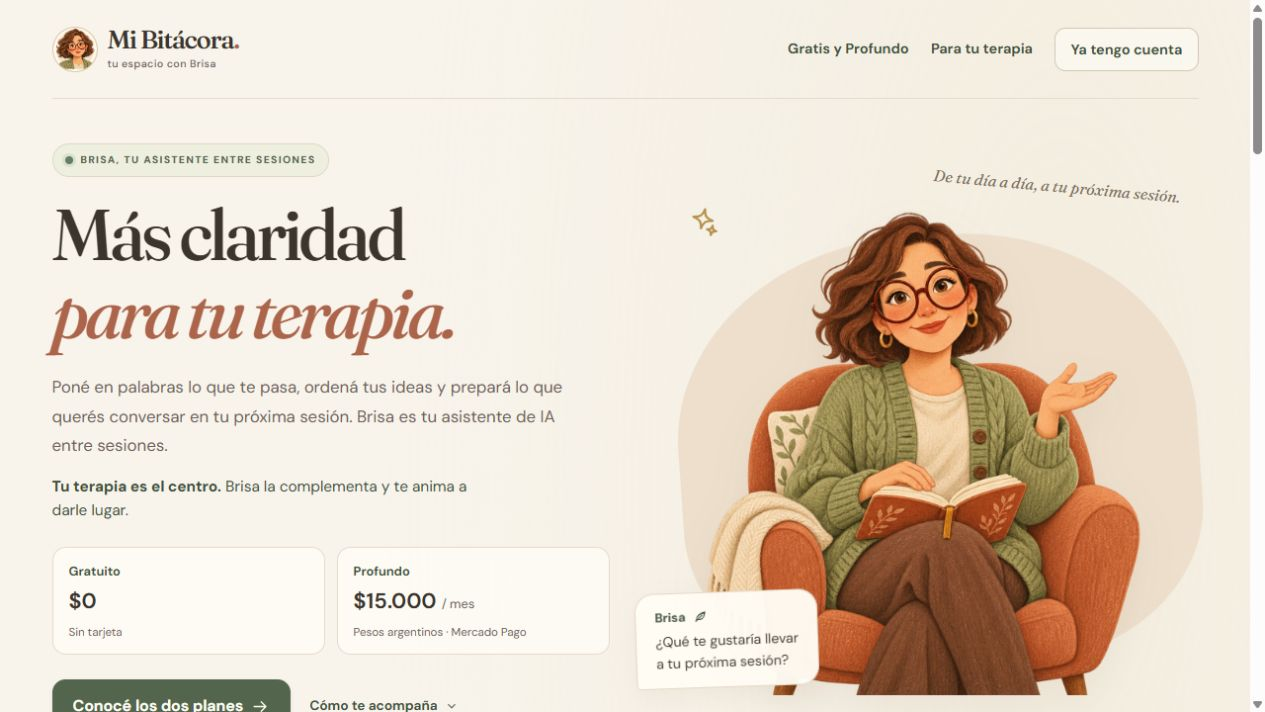
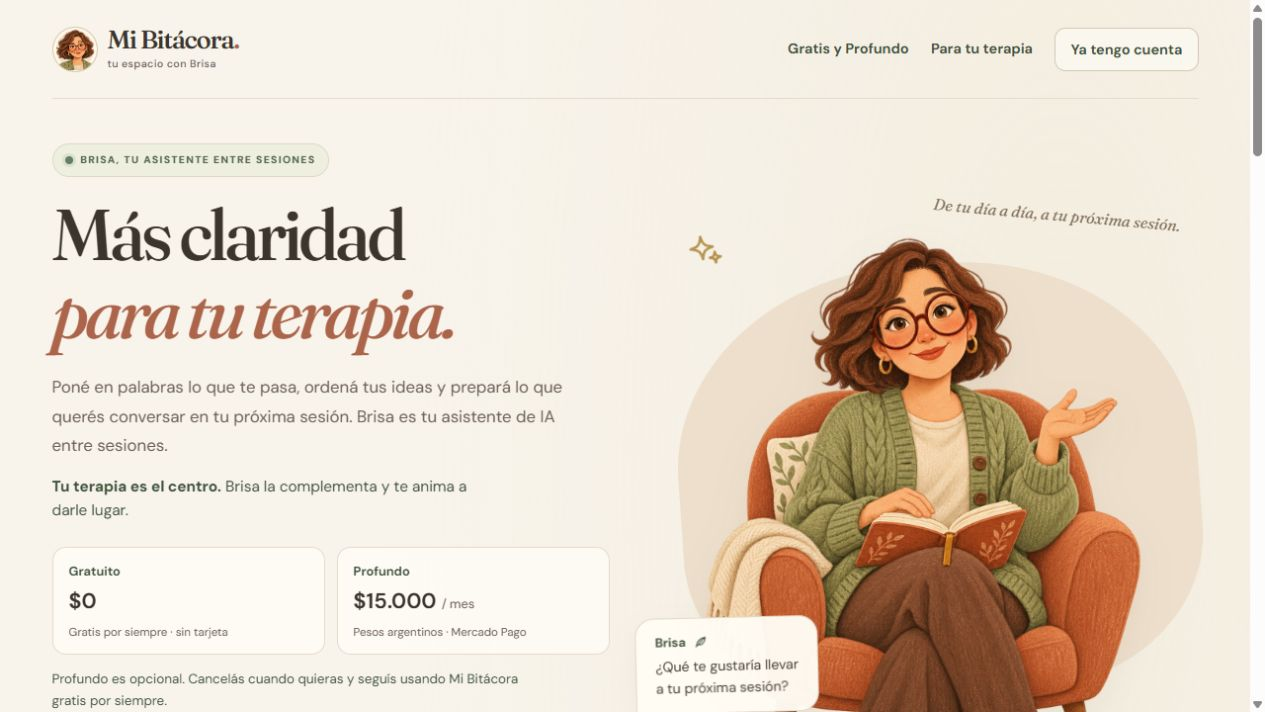
feat: destacar gratuidad permanente y animar Brisa sin controles

diff --git a/wwwroot/brisa.css b/wwwroot/brisa.css
@@ -205,33 +205,31 @@
 .brisa-portrait[data-brisa-activity="responding"] .brisa-face-responding { opacity: 1; }
 .brisa-animated * { --brisa-animation: none; animation: var(--brisa-animation) !important; }
 .brisa-animated .brisa-face { transition: opacity .32s ease !important; }
-.brisa-animated:is([data-brisa-activity="idle"], [data-brisa-settled="true"]) .brisa-face-half-blink { --brisa-animation: brisa-half-blink 8.6s linear infinite; }
-.brisa-animated:is([data-brisa-activity="idle"], [data-brisa-settled="true"]) .brisa-face-blink { --brisa-animation: brisa-blink 8.6s linear infinite; }
-.brisa-animated:is([data-brisa-activity="idle"], [data-brisa-settled="true"]) .brisa-face-stack { --brisa-animation: brisa-breathe 8s ease-in-out infinite; }
+.brisa-animated:is([data-brisa-activity="idle"], [data-brisa-settled="true"]) .brisa-face-half-blink { --brisa-animation: brisa-half-blink 6.8s linear infinite; }
+.brisa-animated:is([data-brisa-activity="idle"], [data-brisa-settled="true"]) .brisa-face-blink { --brisa-animation: brisa-blink 6.8s linear infinite; }
+.brisa-animated:is([data-brisa-activity="idle"], [data-brisa-settled="true"]) .brisa-face-stack { --brisa-animation: brisa-breathe 6s ease-in-out infinite; }
 .brisa-animated[data-brisa-activity="reading"] .brisa-face-stack { --brisa-animation: brisa-read 6.8s ease-in-out infinite; }
 .brisa-animated[data-brisa-activity="thinking"] .brisa-face-stack { --brisa-animation: brisa-ponder 7.2s ease-in-out infinite; }
 .brisa-animated[data-brisa-activity="responding"]:not([data-brisa-settled="true"]) .brisa-face-stack { --brisa-animation: brisa-answer 4.8s ease-in-out both; }
 .brisa-animated[data-brisa-activity="responding"] .brisa-face-responding { --brisa-animation: brisa-respond-face 4.8s ease-in-out both; }
-.brisa-illustration.brisa-animated img { transform-origin: 50% 90%; --brisa-animation: brisa-illustration-breathe 9s ease-in-out infinite; }
-@keyframes brisa-breathe { 0%, 100% { transform: translateY(0); } 50% { transform: translateY(.6px); } }
-@keyframes brisa-read { 0%, 100% { transform: rotate(-.6deg) translateY(0); } 50% { transform: rotate(.4deg) translateY(.7px); } }
-@keyframes brisa-ponder { 0%, 100% { transform: rotate(-1deg); } 50% { transform: rotate(.4deg) translateY(-.4px); } }
+.brisa-illustration.brisa-animated img { transform-origin: 50% 90%; --brisa-animation: brisa-illustration-breathe 7.6s ease-in-out infinite; }
+/* Keep names used by custom properties beside their keyframes, outside CSS isolation. */
+.brisa-hero-scene .brisa-scene-sun { --brisa-animation: brisa-sun 6.2s ease-in-out infinite; }
+.brisa-hero-scene .brisa-hero-bubble { --brisa-animation: brisa-bubble-float 7s ease-in-out infinite; }
+@keyframes brisa-sun { 0%, 100% { transform: rotate(12deg) scale(1); opacity: .75; } 50% { transform: rotate(-8deg) scale(1.14); opacity: 1; } }
+@keyframes brisa-bubble-float { 0%, 100% { transform: translateY(0) rotate(-2deg); } 50% { transform: translateY(-5px) rotate(-1deg); } }
+@keyframes brisa-breathe { 0%, 100% { transform: translateY(0) rotate(0); } 50% { transform: translateY(1.1px) rotate(.3deg); } }
+@keyframes brisa-read { 0%, 100% { transform: rotate(-1.3deg) translateY(0); } 50% { transform: rotate(.7deg) translateY(1.2px); } }
+@keyframes brisa-ponder { 0%, 100% { transform: rotate(-1.8deg); } 50% { transform: rotate(1.1deg) translateY(-.8px); } }
 @keyframes brisa-answer { 0% { transform: rotate(0); } 13% { transform: rotate(1.2deg) translateY(.6px); } 28% { transform: rotate(-.5deg); } 45%, 100% { transform: none; } }
 @keyframes brisa-respond-face { 0% { opacity: 0; } 8%, 80% { opacity: 1; } 100% { opacity: 0; } }
-@keyframes brisa-illustration-breathe { 0%, 100% { transform: translateY(0) scale(1); } 50% { transform: translateY(-1px) scale(1.003); } }
+@keyframes brisa-illustration-breathe { 0%, 100% { transform: translateY(0) scale(1) rotate(0); } 50% { transform: translateY(-5px) scale(1.012) rotate(-.3deg); } }
 @keyframes brisa-half-blink { 0%, 44.9%, 46.1%, 47.1%, 48.2%, 100% { opacity: 0; } 45%, 46%, 47.2%, 48.1% { opacity: 1; } }
 @keyframes brisa-blink { 0%, 46%, 47.2%, 100% { opacity: 0; } 46.1%, 47.1% { opacity: 1; } }
 .brisa-animated:not([data-brisa-visible="true"]) *,
 html[data-brisa-page-hidden="true"] .brisa-animated * { animation-play-state: paused !important; }
 @media (prefers-reduced-motion: reduce) {
-    html:not([data-brisa-motion="on"]) .brisa-animated * { animation: none !important; transition: none !important; transform: none !important; }
-    html:not([data-brisa-motion="on"]) .brisa-face-half-blink,
-    html:not([data-brisa-motion="on"]) .brisa-face-blink { opacity: 0 !important; }
+    .brisa-animated * { animation: none !important; transition: none !important; transform: none !important; }
+    .brisa-face-half-blink, .brisa-face-blink { opacity: 0 !important; }
 }
-html[data-brisa-motion="off"] .brisa-animated * { animation: none !important; transition: none !important; transform: none !important; }
-html[data-brisa-motion="off"] .brisa-face-half-blink, html[data-brisa-motion="off"] .brisa-face-blink { opacity: 0 !important; }
-.brisa-motion-control { display: flex; flex-wrap: wrap; align-items: center; justify-content: space-between; gap: .75rem 1.5rem; margin-block: 1.5rem; padding: 1rem 1.1rem; border: 1px solid var(--line); border-radius: 1rem; background: var(--paper); }
-.brisa-motion-control strong { color: var(--olive-dark); font-size: .85rem; }
-.brisa-motion-control p { max-width: 52ch; margin-top: .2rem; font-size: .76rem; color: var(--muted); line-height: 1.5; }
-.brisa-motion-control select { max-width: 100%; min-height: 2.75rem; padding: .5rem .75rem; border: 1px solid #cdd3c1; border-radius: .65rem; background: #f2f3e8; color: var(--olive-dark); font-size: 1rem; }
 @media print { .brisa-animated * { animation: none !important; transform: none !important; } .brisa-face-half-blink, .brisa-face-blink { display: none; } }

diff --git a/wwwroot/brisa-motion.js b/wwwroot/brisa-motion.js
@@ -1,33 +1,6 @@
 // One observer for the page. Motion never makes a request or reports anything to the server.
 const selector = '[data-brisa-animate="true"]';
 const watched = new Set();
-const preferenceKey = 'mibitacora.brisa.motion';
-const modes = ['system', 'on', 'off'];
-let mode = 'system';
-try { const saved = localStorage.getItem(preferenceKey); if (modes.includes(saved)) mode = saved; } catch { /* Storage may be unavailable. */ }
-const reduced = typeof matchMedia === 'function' ? matchMedia('(prefers-reduced-motion: reduce)') : null;
-function syncControls(node) {
-    document.documentElement.dataset.brisaMotion = mode;
-    for (const control of node.querySelectorAll('[data-brisa-motion-control]')) control.value = mode;
-    const note = mode === 'on' ? 'Animaciones suaves activadas. Podés detenerlas cuando quieras.' :
-        mode === 'off' ? 'Sin animaciones. Brisa conserva sus expresiones.' :
-        reduced?.matches ? 'Tu dispositivo pide reducir el movimiento. Las expresiones cambian sin animarse.' :
-        'Brisa se mueve suavemente y se pausa cuando no está a la vista.';
-    for (const element of node.querySelectorAll('[data-brisa-motion-note]')) element.textContent = note;
-}
-syncControls(document.documentElement);
-reduced?.addEventListener?.('change', () => syncControls(document.documentElement));
-document.addEventListener('change', event => {
-    if (!event.target.matches?.('[data-brisa-motion-control]') || !modes.includes(event.target.value)) return;
-    mode = event.target.value;
-    try { localStorage.setItem(preferenceKey, mode); } catch { /* The choice still works for this page. */ }
-    syncControls(document.documentElement);
-});
-globalThis.addEventListener?.('storage', event => {
-    if (event.key !== preferenceKey) return;
-    mode = modes.includes(event.newValue) ? event.newValue : 'system';
-    syncControls(document.documentElement);
-});
 const observer = typeof IntersectionObserver === 'function' ? new IntersectionObserver(entries => {
     for (const entry of entries) entry.target.dataset.brisaVisible = String(entry.isIntersecting);
 }, { threshold: 0.01 }) : null;
@@ -60,10 +33,7 @@ new MutationObserver(records => {
             else unwatch(record.target);
         } else {
             for (const node of record.removedNodes) visit(node, unwatch);
-            for (const node of record.addedNodes) {
-                visit(node, watch);
-                if (node.nodeType === 1) syncControls(node.parentElement ?? node);
-            }
+            for (const node of record.addedNodes) visit(node, watch);
         }
     }
 }).observe(document.documentElement, { childList: true, subtree: true, attributes: true,

diff --git a/Components/Pages/Home.razor.css b/Components/Pages/Home.razor.css
@@ -8,6 +8,11 @@
 .hero-offers strong { color: var(--ink); font-size: 1.35rem; font-weight: 650; }
 .hero-offers small { color: var(--muted); font-size: .72rem; line-height: 1.5; }
 .hero-offers strong small { font-size: .8rem; font-weight: 400; }
+.plan-freedom { margin-top: .85rem; max-width: 55ch; color: var(--olive-dark); font-size: .84rem; line-height: 1.65; }
+.hero-copy { animation: landing-arrive .75s ease-out both; }
+.brisa-method .method-card { transition: transform .25s ease, box-shadow .25s ease; }
+.brisa-method .method-card:hover { transform: translateY(-4px); box-shadow: 0 12px 28px #72583c12; }
+@keyframes landing-arrive { from { opacity: 0; transform: translateY(12px); } to { opacity: 1; transform: none; } }
 .brisa-hero .hero-actions { gap: .5rem 1.2rem; }
 .brisa-hero .hero-secondary { font-size: .85rem; }
 .landing-plans { padding-block: 1.5rem 4rem; }
@@ -66,4 +71,9 @@
     .landing-header .site-nav .text-link, .landing-header .site-nav .btn { font-size: .72rem; }
     .hero-offers > p { padding: .7rem .6rem; }
     .hero-offers strong { font-size: 1.1rem; }
+}
+@media (prefers-reduced-motion: reduce) {
+    .hero-copy { animation: none; }
+    .brisa-method .method-card { transition: none; }
+    .brisa-method .method-card:hover { transform: none; }
 }

diff --git a/docs/gestos-brisa.md b/docs/gestos-brisa.md
@@ -4,7 +4,11 @@ Brisa pasa por reposo, lectura, pensamiento y respuesta, según fases reales de 
 
 El módulo `brisa-motion.js` pausa los retratos fuera de pantalla o con la pestaña oculta y libera observadores cuando Blazor retira tarjetas. Usa CSS y una hoja transparente de seis expresiones.
 
-En el inicio y Mi cuenta, «Movimiento de Brisa» permite seguir el dispositivo, activar animaciones suaves o desactivarlas. Guarda la preferencia en este navegador con `mibitacora.brisa.motion`. Por defecto respeta `prefers-reduced-motion`. Sin movimiento se mantienen las expresiones informativas; no cambia el sistema operativo ni escribe datos en el servidor.
+Las animaciones se activan automáticamente, sin selector ni aviso en el inicio o Mi cuenta. Las preferencias antiguas guardadas en `mibitacora.brisa.motion` ya no se consultan ni se modifican. Los retratos se animan por defecto; las tarjetas históricas de respuestas conservan `Animated=false` para que la lectura del historial siga tranquila.
+
+La ilustración tiene un balanceo más perceptible; los retratos respiran, parpadean y acompañan las fases reales de la conversación. En el inicio, la burbuja flota y la estrella cambia suavemente de escala y ángulo; la escena usa el mismo observador de visibilidad que los retratos. La entrada del texto y la respuesta al pasar sobre las tarjetas completan el movimiento sin ocultar contenido ni agregar esperas.
+
+Se respeta automáticamente `prefers-reduced-motion` del dispositivo y se detiene el movimiento al imprimir. Las expresiones informativas permanecen visibles. No se agregan llamadas de IA, preferencias en el servidor ni escrituras en el almacenamiento del navegador.
 
 ## Recurso y reproducción
 
@@ -12,7 +16,7 @@ En el inicio y Mi cuenta, «Movimiento de Brisa» permite seguir el dispositivo,
 - Referencia: `wwwroot/brisa/brisa-cozy.png`.
 - Modo: edición mediante la herramienta integrada de generación de imágenes, conservando identidad y vestimenta. Sin claves del proyecto.
 - Orden: reposo, lectura, pensamiento; respuesta, medio parpadeo, parpadeo completo.
-- Componentes: `BrisaPortrait.razor`, `BrisaMotionControl.razor`, `brisa.css`, `brisa-motion.js`.
+- Componentes: `BrisaPortrait.razor`, `Home.razor.css`, `brisa.css`, `brisa-motion.js`.
 
 Prompt exacto:
 
@@ -41,5 +45,5 @@ El favicon es un SVG con sus lentes. La marca dice «tu espacio con Brisa». Esc
 
 ## Verificación
 
-`tests/brisa-motion.test.mjs` cubre visibilidad, fases, retorno a la calma, observadores y preferencias. Las comprobaciones .NET verifican fases sin llamadas extra, cancelación y tarjetas antiguas/nuevas. Capturas con contenido ficticio en `.artifacts/brisa-motion`, fuera de Git.
+`tests/brisa-motion.test.mjs` cubre visibilidad, fases, retorno a la calma, desmontaje de escenas con retratos y compatibilidad con preferencias antiguas sin aplicarlas. Las comprobaciones .NET verifican fases sin llamadas extra, cancelación y tarjetas antiguas/nuevas. Las capturas de verificación usan páginas públicas o contenido ficticio y quedan en `.artifacts`, fuera de Git.
 

diff --git a/docs/inicio-y-planes.md b/docs/inicio-y-planes.md
@@ -4,7 +4,9 @@ La portada presenta a Brisa como una asistente de IA para registrar experiencias
 
 ## Dos opciones con la misma jerarquía
 
-El inicio muestra desde el primer bloque que existe un plan Gratuito de $0 sin tarjeta y un plan Profundo en pesos argentinos. Las dos tarjetas comparten tamaño, tipografía, bordes, fondo y estilo de botón; ninguna aparece como recomendada o preseleccionada. En pantallas pequeñas se apilan en el mismo orden: Gratuito y Profundo.
+El inicio muestra desde el primer bloque que existe un plan Gratuito de $0, gratis por siempre, sin tarjeta ni período de prueba, y un plan Profundo en pesos argentinos. Profundo se puede cancelar en cualquier momento: se conserva el período ya abonado y después se sigue usando la plataforma gratis por siempre, con los diarios y conversaciones. El mensaje también aparece en `/planes`, las condiciones y Mi plan.
+
+Las dos tarjetas comparten tamaño, tipografía, bordes, fondo y estilo de botón; ninguna aparece como recomendada o preseleccionada. En pantallas pequeñas se apilan en el mismo orden: Gratuito y Profundo. Las animaciones se activan automáticamente, sin selector ni aviso, con más presencia en Brisa, su burbuja y la estrella. Ver [gestos y movimiento](gestos-brisa.md).
 
 `Components/Shared/PlanComparison.razor` se utiliza tanto en `/` como en `/planes`, para conservar una sola presentación de sus características. El precio y el cupo se obtienen de `SubscriptionOptions`, igual que en la contratación: inicialmente ARS 15.000 finales por mes y 200 créditos por período. Se explicitan la renovación automática, la cancelación desde Mi plan y el aviso de consumo al 80%. Los detalles del cupo, transcripciones, informes, reintegros y almacenamiento siguen en `/planes`.
 
@@ -20,4 +22,4 @@ Se conserva el SVG original, sin cambios de colores, proporciones ni trazados, s
 
 Se revisaron el inicio y `/planes` en escritorio, tablet de 768 px y móviles de 390 y 320 px: sin desbordamiento horizontal, tarjetas de igual tamaño en escritorio, botones de igual énfasis y logo cargado. Se comprobaron los accesos al registro, al inicio de sesión previo a Mi plan y las anclas de planes y terapia. La revisión utiliza una base local vacía, sin correos, llamadas de IA ni cobros reales.
 
-Estos cambios modifican la presentación pública. No cambian permisos de los planes, créditos, procesamiento de pagos ni configuración privada.
+Estos cambios modifican la presentación y el movimiento de la interfaz. No cambian permisos de los planes, créditos, procesamiento de pagos ni configuración privada.
